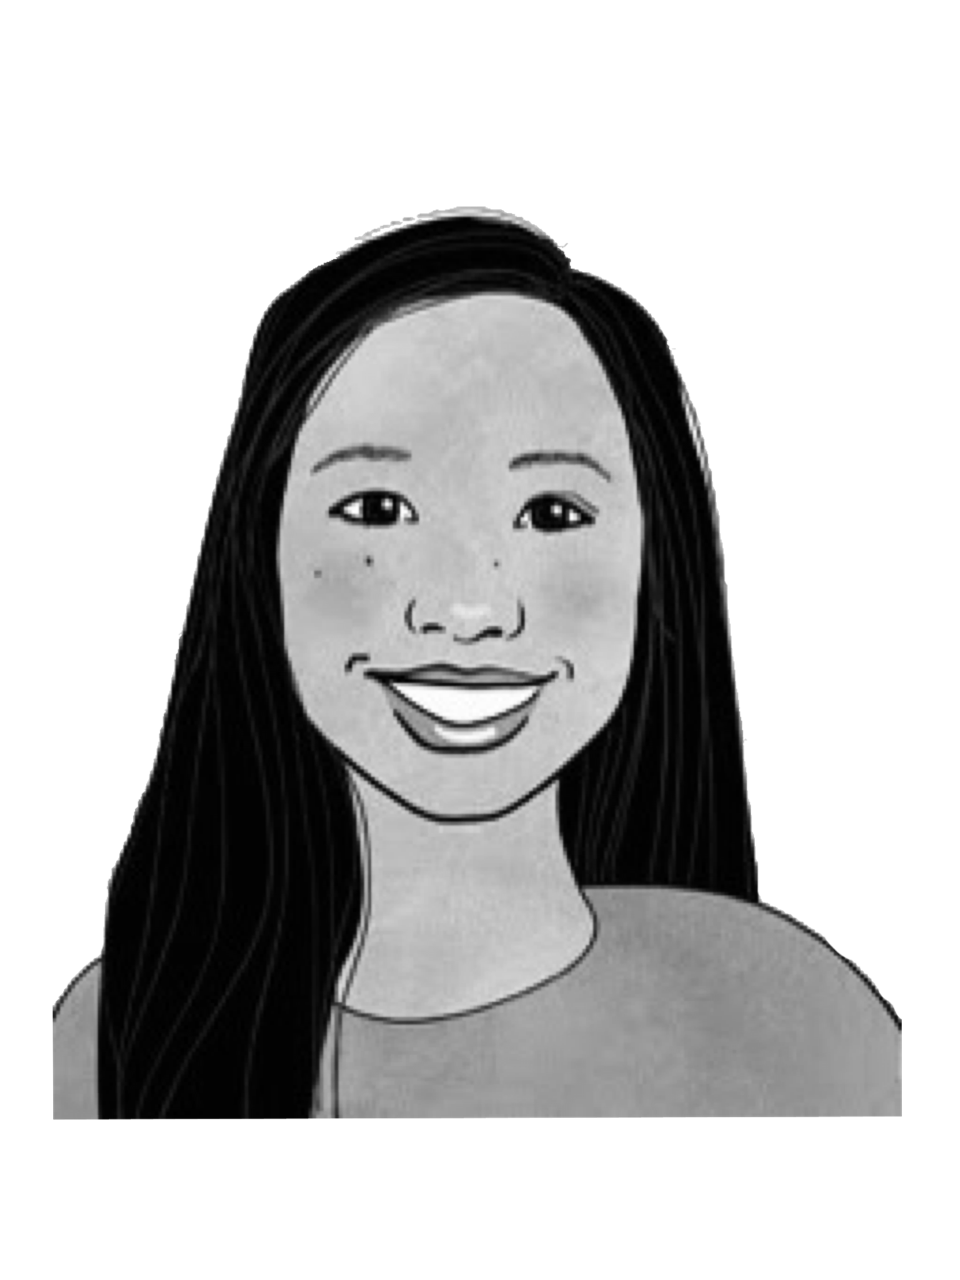
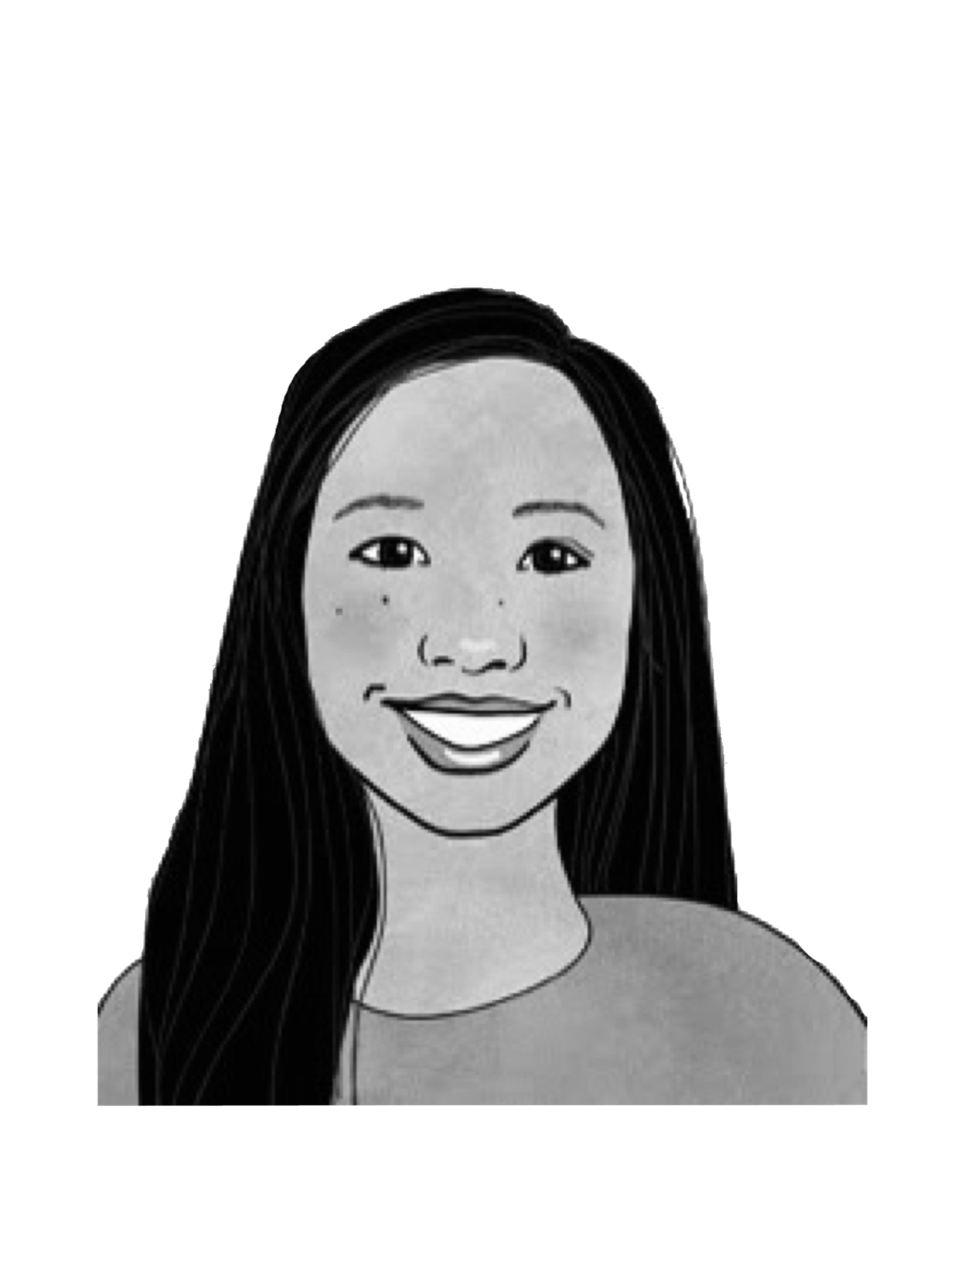
basic page layout

Changed region(s): [[0.0312, 0.1562, 0.9375, 0.875]]

diff --git a/index.html b/index.html
@@ -6,7 +6,7 @@
 -->
 <html>
 	<head>
-		<title>Photon by HTML5 UP</title>
+		<title>Melody Lee</title>
 		<meta charset="utf-8" />
 		<meta name="viewport" content="width=device-width, initial-scale=1, user-scalable=no" />
 		<link rel="stylesheet" href="assets/css/main.css" />
@@ -17,13 +17,14 @@
 		<!-- Header -->
 			<section id="header">
 				<div class="inner">
-					<span class="icon major fa-cloud"></span>
-					<h1>Hi, I'm <strong>Photon</strong>, another fine<br />
-					little freebie from <a href="http://html5up.net">HTML5 UP</a>.</h1>
-					<p>Accumsan feugiat mi commodo erat lorem ipsum, sed magna<br />
-					lobortis feugiat sapien sed etiam volutpat accumsan.</p>
+					<span class="image"><img src="images/sketch.png" alt="" width="155" height="200" /></span>
+					<h1>Melody Lee</h1>
+					<p>Computer Science Student at The George Washington University</p>
+					<br>
+					<a href="#" class="button wide">Resume</a>
 					<ul class="actions special">
-						<li><a href="#one" class="button scrolly">Discover</a></li>
+						<li><a href="#" class="icon major fa-github"><span class="label">GitHub</span></a></li>
+						<li><a href="#" class="icon major fa-linkedin"><span class="label">LinkedIn</span></a></li>
 					</ul>
 				</div>
 			</section>
@@ -34,10 +35,10 @@
 					<div class="row gtr-150">
 						<div class="col-6 col-12-medium">
 							<header class="major">
-								<h2>Lorem ipsum dolor adipiscing<br />
-								amet dolor consequat</h2>
+								<h2><i>Hello World!</i><br />
+								About Me</h2>
 							</header>
-							<p>Adipiscing a commodo ante nunc accumsan et interdum mi ante adipiscing. A nunc lobortis non nisl amet vis sed volutpat aclacus nascetur ac non. Lorem curae et ante amet sapien sed tempus adipiscing id accumsan.</p>
+							<p>I'm currently a sophomore majoring in Computer Science and minoring in Economics at The George Washington University in Washington, D.C. My interests lie in front end development, data visualization, and user experience. Some activities I enjoy include long distance running, playing ultimate frisbee, trying out the latest food trends, and praising the oxford comma.</p>
 						</div>
 						<div class="col-6 col-12-medium imp-medium">
 							<span class="image fit"><img src="images/pic01.jpg" alt="" /></span>
@@ -51,23 +52,8 @@
 				<div class="container">
 					<div class="row gtr-150">
 						<div class="col-6 col-12-medium">
-							<ul class="major-icons">
-								<li><span class="icon style1 major fa-code"></span></li>
-								<li><span class="icon style2 major fa-bolt"></span></li>
-								<li><span class="icon style3 major fa-camera-retro"></span></li>
-								<li><span class="icon style4 major fa-cog"></span></li>
-								<li><span class="icon style5 major fa-desktop"></span></li>
-								<li><span class="icon style6 major fa-calendar"></span></li>
-							</ul>
 						</div>
 						<div class="col-6 col-12-medium">
-							<header class="major">
-								<h2>Lorem ipsum dolor adipiscing<br />
-								amet dolor consequat</h2>
-							</header>
-							<p>Adipiscing a commodo ante nunc accumsan interdum mi ante adipiscing. A nunc lobortis non nisl amet vis volutpat aclacus nascetur ac non. Lorem curae eu ante amet sapien in tempus ac. Adipiscing id accumsan adipiscing ipsum.</p>
-							<p>Blandit faucibus proin. Ac aliquam integer adipiscing enim non praesent vis commodo nunc phasellus cubilia ac risus accumsan. Accumsan blandit. Lobortis phasellus non lobortis dit varius mi varius accumsan lobortis. Blandit ante aliquam lacinia lorem lobortis semper morbi col faucibus vitae integer placerat accumsan orci eu mi odio tempus adipiscing adipiscing adipiscing curae consequat feugiat etiam dolore.</p>
-							<p>Adipiscing a commodo ante nunc accumsan interdum mi ante adipiscing. A nunc lobortis non nisl amet vis volutpat aclacus nascetur ac non. Lorem curae eu ante amet sapien in tempus ac. Adipiscing id accumsan adipiscing ipsum.</p>
 						</div>
 					</div>
 				</div>
@@ -77,34 +63,10 @@
 			<section id="three" class="main style1 special">
 				<div class="container">
 					<header class="major">
-						<h2>Adipiscing amet consequat</h2>
+						<h2>ayyyy lmao</h2>
 					</header>
-					<p>Ante nunc accumsan et aclacus nascetur ac ante amet sapien sed.</p>
+					<p></p>
 					<div class="row gtr-150">
-						<div class="col-4 col-12-medium">
-							<span class="image fit"><img src="images/pic02.jpg" alt="" /></span>
-							<h3>Magna feugiat lorem</h3>
-							<p>Adipiscing a commodo ante nunc magna lorem et interdum mi ante nunc lobortis non amet vis sed volutpat et nascetur.</p>
-							<ul class="actions special">
-								<li><a href="#" class="button">More</a></li>
-							</ul>
-						</div>
-						<div class="col-4 col-12-medium">
-							<span class="image fit"><img src="images/pic03.jpg" alt="" /></span>
-							<h3>Magna feugiat lorem</h3>
-							<p>Adipiscing a commodo ante nunc magna lorem et interdum mi ante nunc lobortis non amet vis sed volutpat et nascetur.</p>
-							<ul class="actions special">
-								<li><a href="#" class="button">More</a></li>
-							</ul>
-						</div>
-						<div class="col-4 col-12-medium">
-							<span class="image fit"><img src="images/pic04.jpg" alt="" /></span>
-							<h3>Magna feugiat lorem</h3>
-							<p>Adipiscing a commodo ante nunc magna lorem et interdum mi ante nunc lobortis non amet vis sed volutpat et nascetur.</p>
-							<ul class="actions special">
-								<li><a href="#" class="button">More</a></li>
-							</ul>
-						</div>
 					</div>
 				</div>
 			</section>
@@ -113,12 +75,12 @@
 			<section id="four" class="main style2 special">
 				<div class="container">
 					<header class="major">
-						<h2>Ipsum feugiat consequat?</h2>
+						<h2></h2>
 					</header>
-					<p>Sed lacus nascetur ac ante amet sapien.</p>
+					<p></p>
 					<ul class="actions special">
-						<li><a href="#" class="button wide primary">Sign Up</a></li>
-						<li><a href="#" class="button wide">Learn More</a></li>
+						<li><a href="#" class="button wide primary">fr e sh </a></li>
+						<li><a href="#" class="button wide">a voca do</a></li>
 					</ul>
 				</div>
 			</section>
@@ -444,14 +406,13 @@ print 'It took ' + i + ' iterations to sort the deck.';</code></pre>
 		<!-- Footer -->
 			<section id="footer">
 				<ul class="icons">
-					<li><a href="#" class="icon alt fa-twitter"><span class="label">Twitter</span></a></li>
-					<li><a href="#" class="icon alt fa-facebook"><span class="label">Facebook</span></a></li>
-					<li><a href="#" class="icon alt fa-instagram"><span class="label">Instagram</span></a></li>
-					<li><a href="#" class="icon alt fa-github"><span class="label">GitHub</span></a></li>
 					<li><a href="#" class="icon alt fa-envelope"><span class="label">Email</span></a></li>
+					<li><a href="#" class="icon alt fa-github"><span class="label">GitHub</span></a></li>
+					<li><a href="#" class="icon alt fa-linkedin"><span class="label">LinkedIn</span></a></li>
+					<li><a href="#">Resume</a></li>
 				</ul>
 				<ul class="copyright">
-					<li>&copy; Untitled</li><li>Design: <a href="http://html5up.net">HTML5 UP</a></li>
+					<li>Design: <a href="http://html5up.net">HTML5 UP</a></li>
 				</ul>
 			</section>
 
